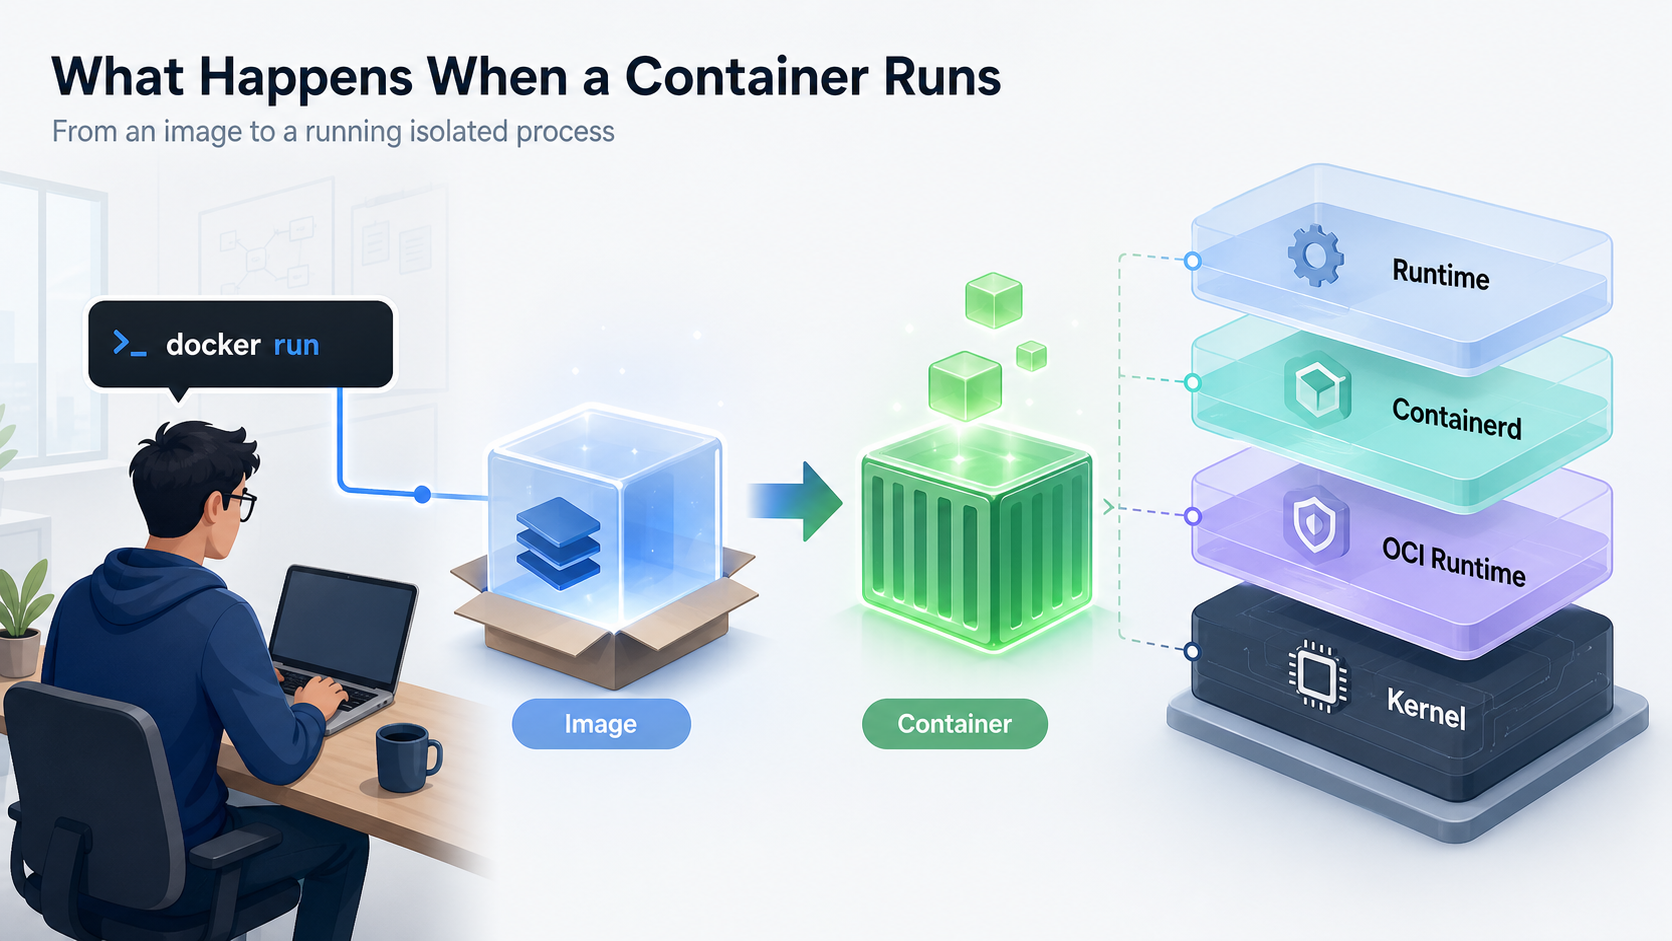
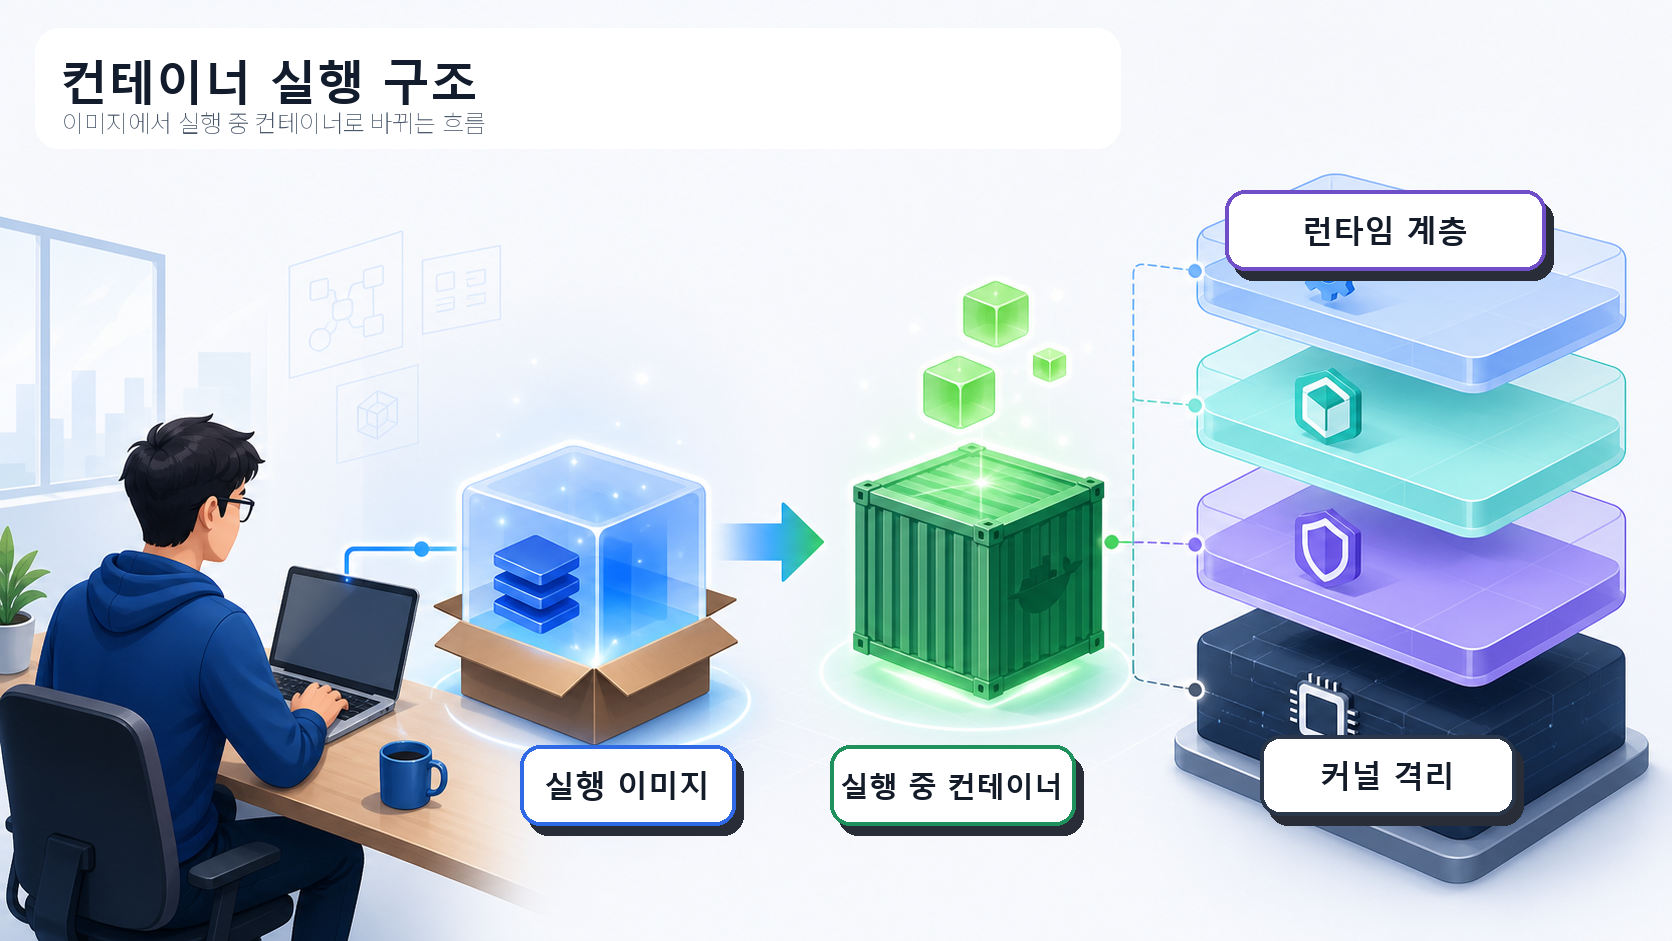
Localize Docker infographic text

diff --git a/WRITING_GUIDE.md b/WRITING_GUIDE.md
@@ -48,6 +48,7 @@
 - **변천사와 트렌드**: Docker, Kubernetes, AWS 서비스처럼 업계 선택지가 바뀐 주제는 왜 등장했고 무엇을 대체했는지 짧은 이야기로 풀어준다.
 - **재미의 밀도**: 가벼운 농담보다 실제 장애, 팀 협업, 배포 압박, 비용 문제 같은 현실적인 사건을 이야기 재료로 쓴다.
 - **시각 자료**: 스틱맨 장면 이미지만으로 끝내지 않는다. Day마다 아키텍처, 실행 흐름, 네트워크 경로, 상태 전이를 설명하는 인포그래픽형 PNG를 최소 1개 이상 본문에 직접 삽입한다. 박스와 화살표만 있는 SVG식 그림을 PNG로 저장한 것은 이 기준을 충족하지 않는다.
+- **이미지 안 텍스트**: 제목과 필수 설명 라벨은 한국어로 쓴다. 제품명, 명령어, 포트, 프로토콜처럼 기술 식별자 역할을 하는 단어만 영어를 허용한다.
 
 ## 문장 스타일 체크(빠른 자가 점검)
 

diff --git a/AGENT.md b/AGENT.md
@@ -72,6 +72,7 @@ Previous AWS materials are archived under `archive/` and are not the active base
 - Schedule fit: Each day README must include the 09:00-18:00 block index.
 - Visual fit: Each major concept should have either a Mermaid diagram or stickman scenario image prompt.
 - Week 2+ visual fit: Student-facing materials must embed at least one infographic-style architecture PNG per day, separate from stickman images. Avoid exporting plain box-and-arrow diagrams as PNG and calling them finished visuals.
+- Visual text language: Titles and essential explanatory labels inside student-facing images must be Korean. Keep only product names, commands, ports, and protocol identifiers in English when technically clearer.
 - Learning design: Use See, Explain, Do, Diagnose, Reflect as the default teaching loop.
 - Accessibility: Write for non-CS university students first, then provide optional deep-dive materials for advanced learners.
 

diff --git a/.codex/skills/cloud-native-course-production/SKILL.md b/.codex/skills/cloud-native-course-production/SKILL.md
@@ -37,3 +37,4 @@ Use this skill to produce classroom-ready Cloud Native DevOps materials.
 - Connect every topic to deployment, scaling, networking, security, operations, reliability, or cost.
 - Keep AWS material cloud-native and practical, centered on deployment and operations scenarios.
 - From week 2 onward, raise depth to university STEM / junior engineer level, expand hands-on labs, verify lab commands, include technology evolution or industry trend context, and embed infographic-style architecture PNGs in addition to stickman images. Do not treat plain box-and-arrow SVG-style diagrams exported as PNG as finished visuals.
+- For student-facing images, write titles and essential explanatory labels in Korean. Use English only for product names, commands, ports, protocols, and other technical identifiers.
